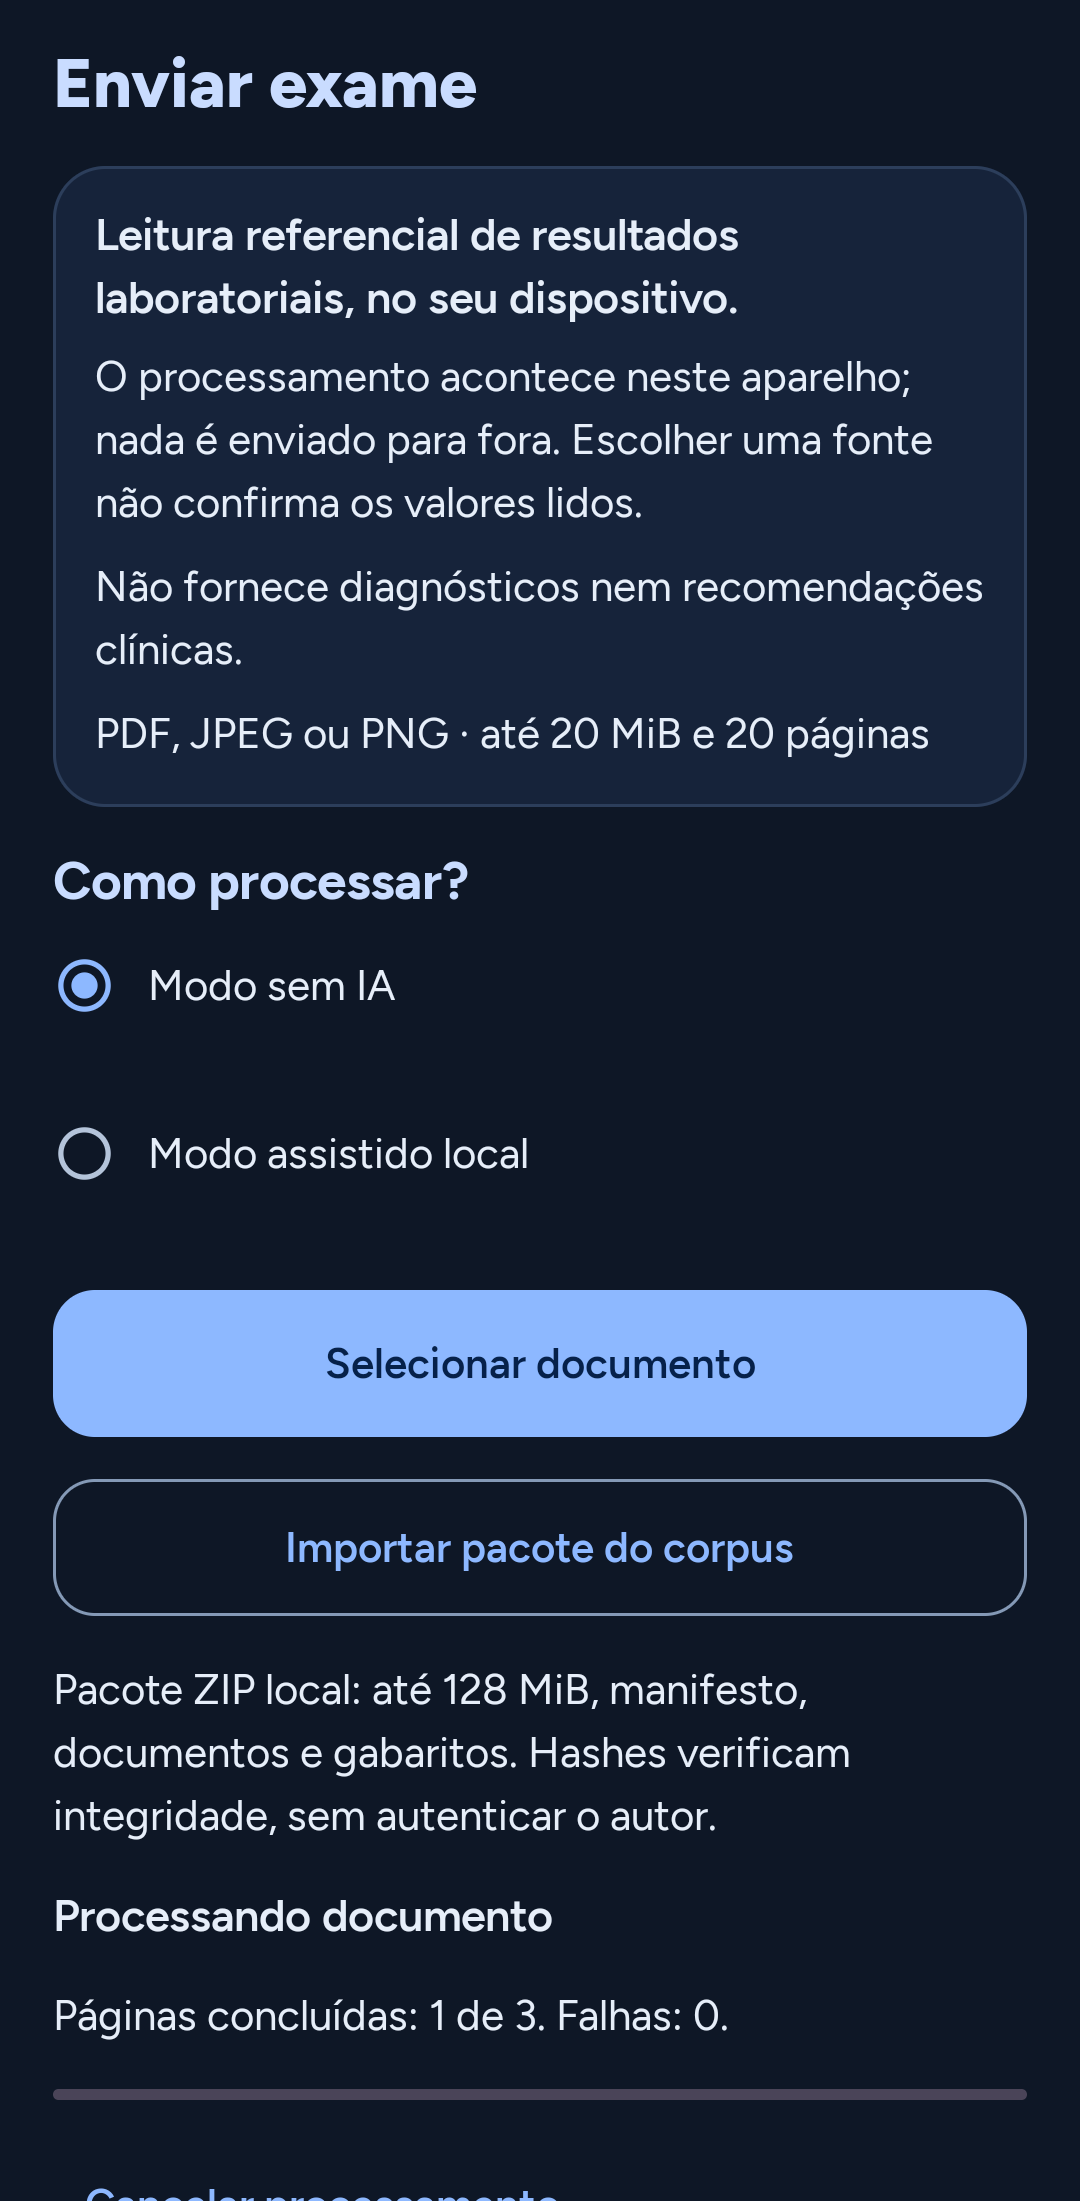
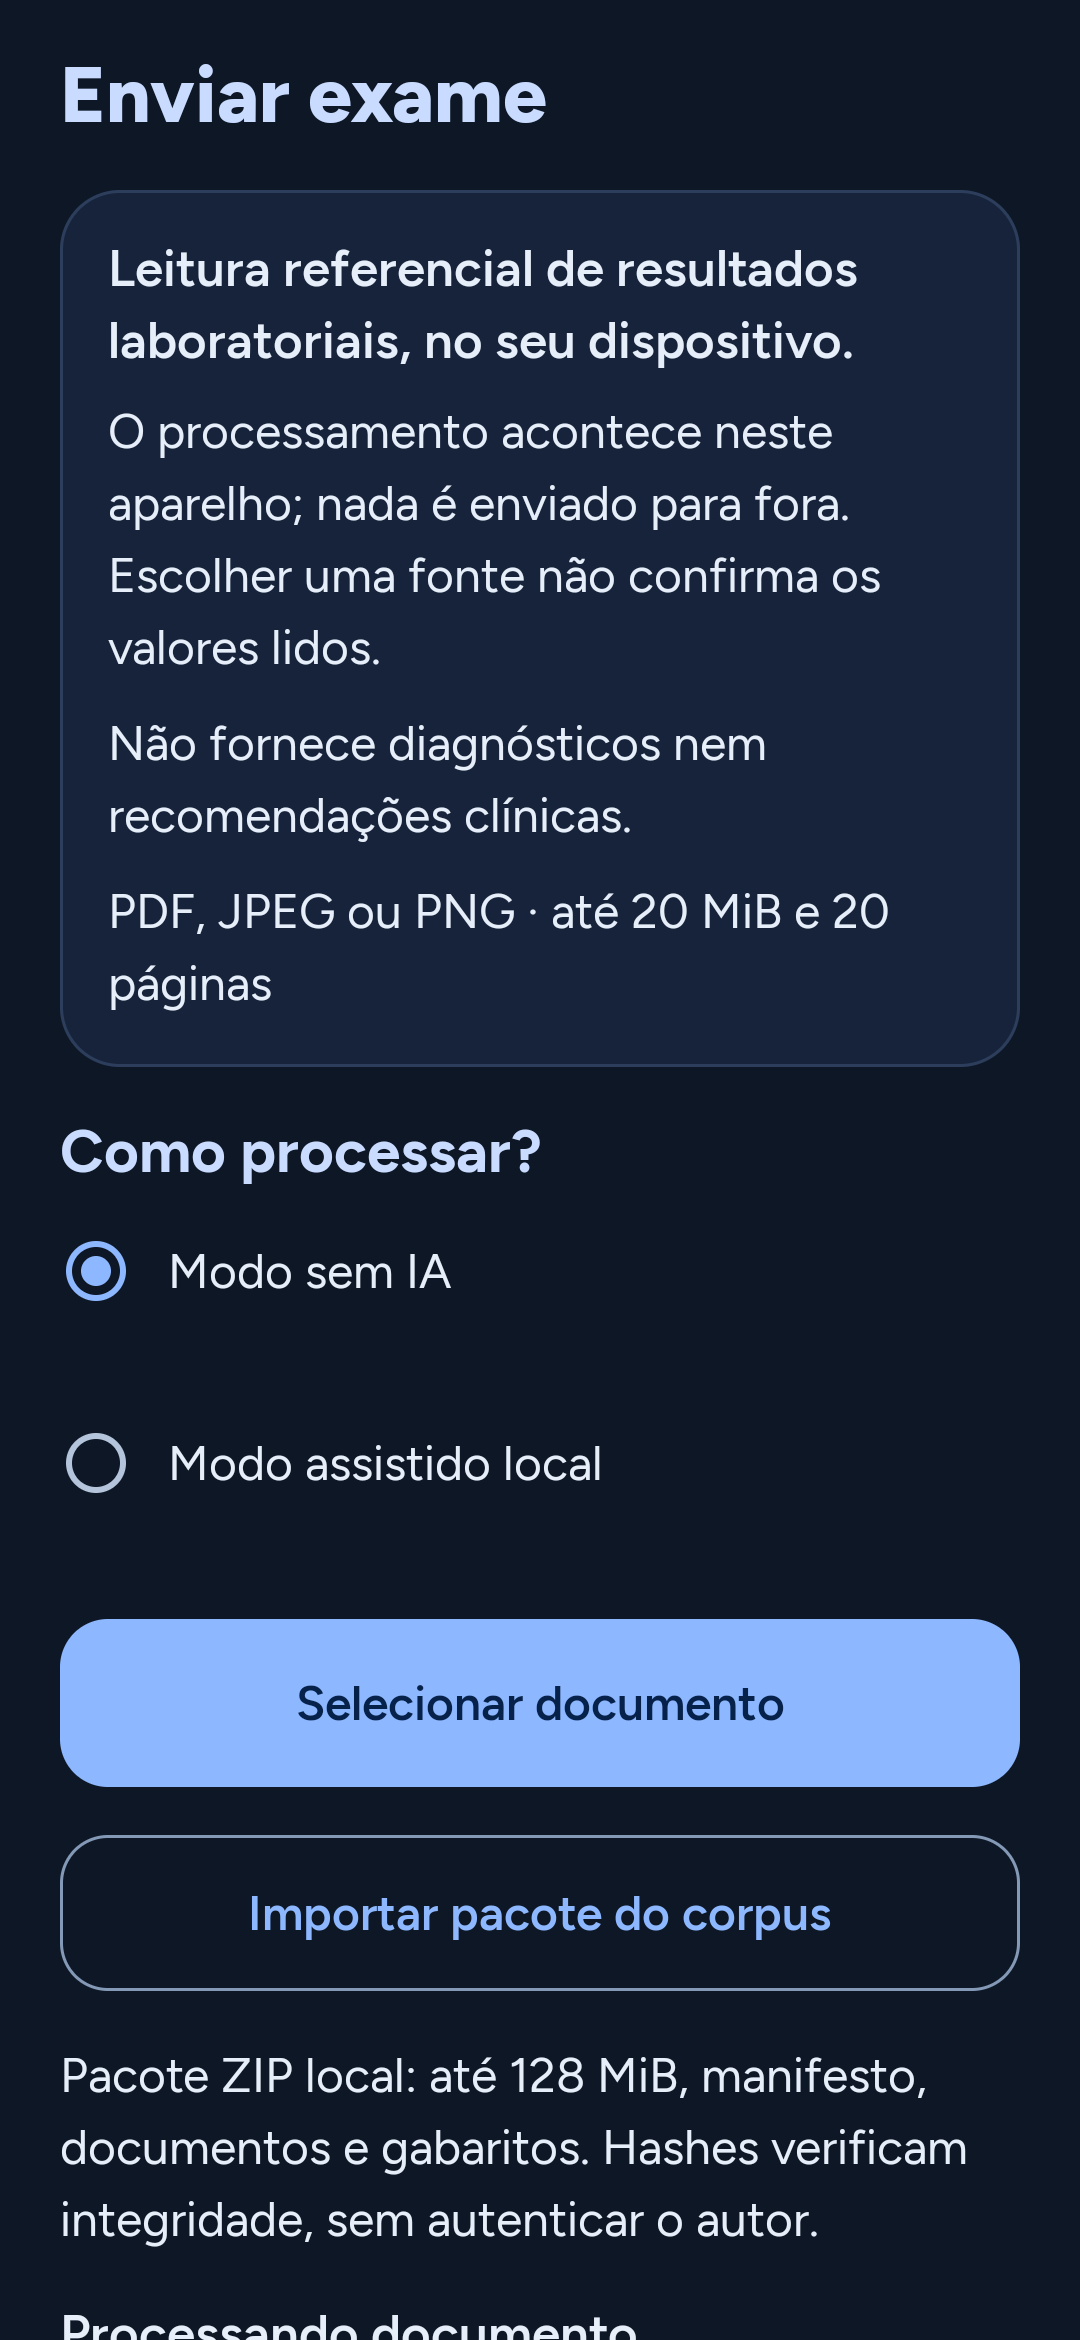
docs: replace synthetic captures with S25 renders

diff --git a/docs/PROTOTYPE_EXPERIENCE.md b/docs/PROTOTYPE_EXPERIENCE.md
@@ -68,10 +68,10 @@ produção) e `NavigationTest` cobrem esse contrato.
 `:ui-checks` (módulo só de testes, sem o APK de 2 GB) renderiza Início (vazio e com exame), Enviar, Resultado e Ajuda nos
 temas claro/escuro com fonte 100% e 200%, usando o mesmo fundo temado da `MainActivity`, e verifica: checagens de
 acessibilidade do Compose (`enableAccessibilityChecks`), altura e largura de layout de todo controle ≥ 48 dp e alcance por
-rolagem (telas de rolagem simples). Passou em 03/11/2026 em Android 7.0 (API 24) e no emulador API 36.
+rolagem (telas de rolagem simples). Passou em 03/11/2026 em Android 7.0 (API 24), no emulador API 36 e no S25.
 
 Capturas sintéticas (sem dado clínico; documento `doc-sintetico`, valores fictícios) em `docs/prototype-screens/`,
-nomeadas `<tela>-<claro|escuro>-<100|200>.png` (20 arquivos, geradas no emulador API 36).
+nomeadas `<tela>-<claro|escuro>-<100|200>.png` (20 arquivos, geradas no Samsung S25, SM-S931B, Android 17, em 03/11/2026).
 
 Defeitos encontrados e corrigidos por essa verificação: botões de texto com 40 dp (agora `ExamesTextButton`, ≥ 48 dp) e
 raiz do app usando `surface` em vez de `background`, que deixava telas sem fundo próprio claras no tema escuro.
@@ -80,6 +80,7 @@ raiz do app usando `surface` em vez de `background`, que deixava telas sem fundo
 
 - **TalkBack real não foi executado.** As checagens acima são automatizadas (ATF/semântica); a ordem de leitura e os rótulos
   falados no TalkBack do S25 ainda precisam de sessão manual.
-- As capturas vêm do emulador, não do S25; não comprovam renderização em hardware.
+- As capturas são sintéticas (host de teste com estado fictício), não do app com dados reais.
+- Nos módulos de biblioteca o APK de teste herdava `targetSdk` 24 e o S25 (Android 17) exibia o aviso de app antigo sobre os testes; `testOptions.targetSdk = 36` corrige isso.
 - `EvidenceUiTest.overlayPaintsTheCited…` usa `captureToImage`, que não existe em API 24 (`PixelCopy`); falha só ali, desde a
   change anterior, e não indica defeito do app.
